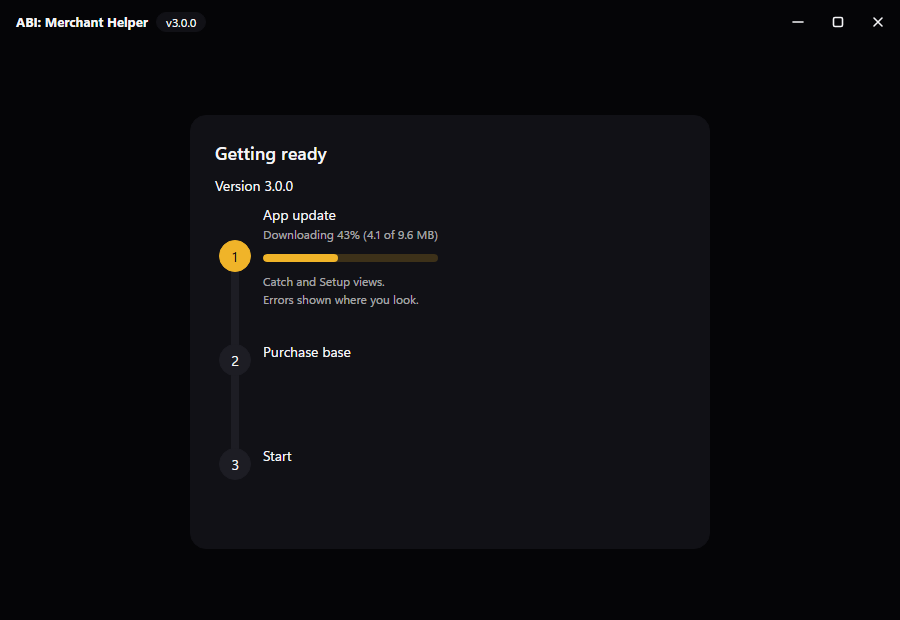
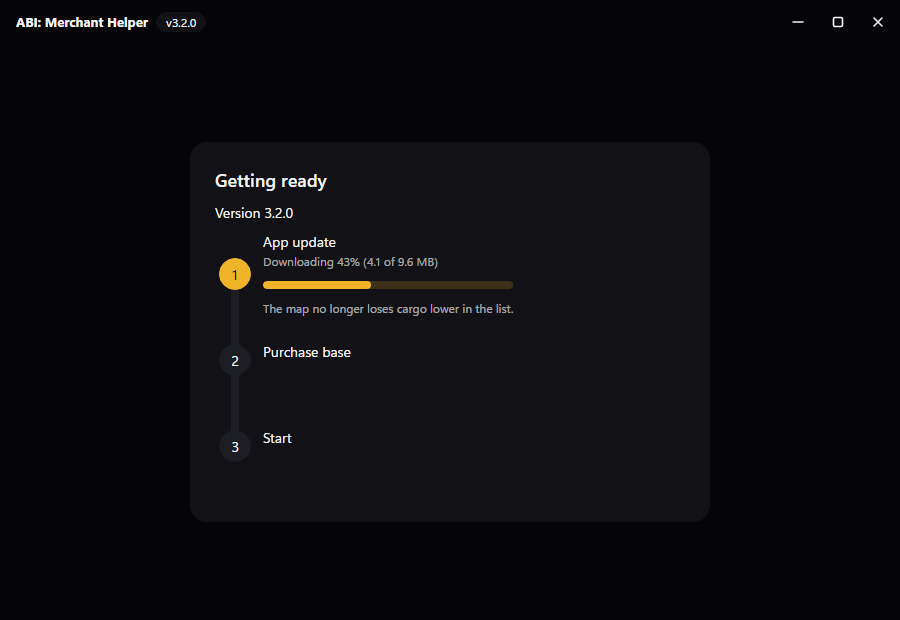
Map: learn the real scroll scale, so lower rows no longer slip and vanish
The row of each frame came from the scrollbar as (thumb position) x (track / thumb length).
In the game the list scrolls about 9% further than that, so the lower part of the list was
counted 1-2 rows off: copies of the same cargo landed on two rows, overlapped, and the vote
kept one and dropped the cargo they covered. Replaying the saved frames of a real game shows
it (scale 2.860 assumed, 3.115 real; with it every frame lands on whole rows).

- learnScale(): during the scan, the scale is fitted so the grid lines of every frame land
  on whole rows (5+ frames, 80% agreeing). When it changes, the scan starts over.
- A ready map corrects itself: a cargo seen 8+ times at two or more scroll positions takes
  the place of ready-map cargo on its cells that have not been seen for 20 parses.
- Diagnostics: the drawn map is saved next to the frames when it is ready and every minute.
- README screenshots retaken with the current look.

Changed region(s): [[0.2178, 0.3371, 0.56, 0.521], [0.2178, 0.2145, 0.3733, 0.3065], [0.28, 0.7048, 0.3422, 0.7661]]

diff --git a/js/screen.js b/js/screen.js
@@ -7,7 +7,7 @@ function resetScan() {
   P = 0; checkFrames = 0; offset = 0; viewport = null; prevSig = null; ring = []; listTopR = null; alerted = new Set();
   cargo = new Map(); results = new Map(); lastKey = null; lastSeen = null; gridSeenAt = 0;
   phase = 'scan'; sawTop = false; sawEnd = false; stableCount = 0;
-  sbKnown = null; noBarCount = 0; frozenPlaced = null; loggedBar = false; frozenP = 0;
+  sbKnown = null; noBarCount = 0; frozenPlaced = null; loggedBar = false; frozenP = 0; scaleSamples = []; scrollK = 0;
   updateStage();
   drawMap();
 }
@@ -21,7 +21,7 @@ function rescan() {
   if (!P || !viewport) { resetScan(); return; }
   cargo = new Map(); results = new Map(); lastKey = null; frozenPlaced = null; hover = null; hoverSig = '';
   phase = 'scan'; sawTop = !sbKnown || lastSbTop; sawEnd = false; stableCount = 0; checkFrames = 0;
-  sbKnown = null; noBarCount = 0; thumbOddCount = 0; frozenP = 0;
+  sbKnown = null; noBarCount = 0; thumbOddCount = 0; frozenP = 0; scaleSamples = []; scrollK = 0;
   updateStage();
   drawMap();
 }
@@ -185,10 +185,12 @@ function analyze(src, rp) {
   const colOf = c => Math.round((grid.x0 + c * P - phaseX) / P);
   let n;
   if (sb) {
-    const scrollPx = (sb.thumbTop - sb.trackTop) * sb.trackLen / sb.thumbLen;
+    if (phase === 'scan') learnScale(sb, grid);
+    const k = scrollK || sb.trackLen / sb.thumbLen;
+    const scrollPx = (sb.thumbTop - sb.trackTop) * k;
     n = Math.round((grid.y0 - sb.trackTop + scrollPx) / P);
     // the list has as many rows as its content length allows; anything else is a recognition error
-    const listRows = Math.ceil(sb.trackLen * sb.trackLen / sb.thumbLen / P) + 2;
+    const listRows = Math.ceil((sb.trackLen + (sb.trackLen - sb.thumbLen) * k) / P) + 2;
     if (n < -grid.rows || n > listRows) { skip('rowRange'); lastSeen = { grid, items }; updateStage(); return; }
     listTopR = 0;
     if (scrollPx < P / 2) sawTop = true;
@@ -208,6 +210,7 @@ function analyze(src, rp) {
 
   // while a cargo is dragged the picture is "dirty": the map and the references are left alone
   const quiet = now - captureOnset > QUIET_MS;
+  parseNo++;
   const seen = new Set(), fresh = [];
   for (const it of items) {
     const C = colOf(it.c), R = n + it.r;
@@ -234,14 +237,24 @@ function analyze(src, rp) {
     const frozenKeys = new Set(frozenPlaced.map(([k]) => k));
     // Filling in: a missing cargo (say, the top row did not get confirmed before freezing)
     // is added once it has been seen confidently several times and overlaps nothing known.
-    // Existing cargo of a ready map never change.
+    // A wrong cargo of the ready map (a shape a price tooltip cut out, or a cargo placed a row off) would block the
+    // real one for good, so a cargo seen again and again, at two or more scroll positions, takes the place of the
+    // ready-map cargo under it that have not been seen for HEAL_STALE parses while it was.
     for (const f of fresh) {
       cargo.set(f.key, { C: f.C, R: f.R, w: f.it.w, h: f.it.h, votes: 0, base: null, thumb: null });
       seen.add(f.key);
     }
     for (const key of seen) {
       const rec = cargo.get(key);
-      if (frozenKeys.has(key) || rec.votes + 1 < MIN_VOTES + 2 || overlapsFrozen(rec)) continue;
+      if (frozenKeys.has(key) || rec.votes + 1 < MIN_VOTES + 2) continue;
+      if (overlapsFrozen(rec)) {
+        const under = frozenPlaced.filter(([, r]) => rec.C < r.C + r.w && r.C < rec.C + rec.w && rec.R < r.R + r.h && r.R < rec.R + rec.h);
+        const solid = rec.votes + 1 >= HEAL_VOTES && rec.rows && rec.rows.size >= 2;
+        if (!solid || under.some(([, r]) => parseNo - (r.seenNo || 0) < HEAL_STALE)) continue;
+        diag(`map corrected: ${under.map(([k]) => k).join(' + ')} -> ${key}`);
+        frozenPlaced = frozenPlaced.filter(e => !under.includes(e));
+        for (const [k] of under) { frozenKeys.delete(k); results.delete(k); if (lastKey === k) lastKey = null; }
+      }
       frozenPlaced.push([key, rec]);
       frozenKeys.add(key);
     }
@@ -252,6 +265,8 @@ function analyze(src, rp) {
     const it = items.find(i => `${colOf(i.c)},${n + i.r},${i.w},${i.h}` === key);
     rec.votes++;
     rec.seen = now;
+    rec.seenNo = parseNo;
+    (rec.rows || (rec.rows = new Set())).add(n); // the scroll positions it was seen at
     if (!quiet && rec.thumb) continue;
     const x = grid.x0 + it.c * P, y = grid.y0 + it.r * P;
     rec.thumb = makeThumb(x, y, it.w * P, it.h * P);
@@ -276,6 +291,39 @@ function analyze(src, rp) {
   if (document.visibilityState === 'visible') drawMap();
 }
 
+// How far the list scrolls per pixel of thumb movement. Not simply track / thumb length (the game's thumb is
+// not proportional): it is the scale with which every frame puts the grid lines on whole rows. Each frame gives
+// the thumb position d and where the grid lines are (f); the right scale makes (k·d − f) / P whole for all of them.
+// Learned during the scan; when it changes, the rows counted so far were off, so the scan starts over.
+function learnScale(sb, grid) {
+  const d = sb.thumbTop - sb.trackTop, f = sb.trackTop - grid.y0;
+  if (d < 4) return; // at the top the thumb tells nothing about the scale
+  if (scaleSamples.some(s => Math.abs(s.d - d) < 2)) return;
+  scaleSamples.push({ d, f });
+  if (scaleSamples.length > 40) scaleSamples.shift();
+  const ds = scaleSamples.map(s => s.d);
+  if (scaleSamples.length < 5 || Math.max(...ds) - Math.min(...ds) < P) return;
+  const base = sb.trackLen / sb.thumbLen;
+  let best = null;
+  for (let k = base * 0.85; k <= base * 1.35; k += base * 0.0005) {
+    let inliers = 0, err = 0;
+    for (const s of scaleSamples) {
+      const r = (k * s.d - s.f) / P, off = Math.abs(r - Math.round(r));
+      if (off < SCALE_FIT) { inliers++; err += off * off; }
+    }
+    if (!best || inliers > best.inliers || (inliers === best.inliers && err < best.err)) best = { k, inliers, err };
+  }
+  // most frames must agree (a cursor on the scrollbar spoils a few), or the old scale stays
+  if (best.inliers < 5 || best.inliers < scaleSamples.length * 0.8) return;
+  const was = scrollK || base;
+  if (Math.abs(best.k - was) < was * 0.005) { scrollK = best.k; return; }
+  scrollK = best.k;
+  diag(`scroll scale ${was.toFixed(3)} -> ${scrollK.toFixed(3)} from ${best.inliers} of ${scaleSamples.length} frames`);
+  if (Math.abs(scrollK - was) > was * 0.02) {
+    cargo = new Map(); results = new Map(); lastKey = null; stableCount = 0; sawTop = sawEnd = false;
+  }
+}
+
 function overlapsFrozen(rec) {
   return frozenPlaced.some(([, r]) => rec.C < r.C + r.w && r.C < rec.C + rec.w && rec.R < r.R + r.h && r.R < rec.R + rec.h);
 }
@@ -286,6 +334,7 @@ function freeze(message) {
   frozenP = P;
   phase = 'frozen';
   log(message);
+  diagMap();
   updateStage();
 }
 

diff --git a/js/base.js b/js/base.js
@@ -21,6 +21,9 @@ const NO_BAR_LIMIT = 8;      // this many parses without a scrollbar: the list i
 const THUMB_TOLERANCE = 0.12; // a thumb longer/shorter than remembered by more than this is suspicious
 const THUMB_NEW_STREAK = 8;  // a new length for this many parses in a row: the list really changed
 const MAP_MAX_ROWS = 80;     // the merchant never has more rows; more on the map is an error
+const SCALE_FIT = 0.15;      // a frame agrees with a scroll scale if its grid lines land this close to whole rows
+const HEAL_VOTES = 8;        // a cargo needs this many sightings to replace a cargo of the ready map
+const HEAL_STALE = 20;       // and those must not have been seen for this many parses
 const MIN_VOTES = 2;         // this many frames must confirm a cargo before it appears on the map
 const SPLIT_SHARE = 0.35;    // smaller cargo beat a big one if each was seen at least this often relative to it
 const UP_BIAS = 0.03;        // "put down" beats "pick up" only by this margin

diff --git a/js/purchases.js b/js/purchases.js
@@ -65,6 +65,11 @@ if (!DIAG && location.protocol.startsWith('http')) fetch('diag.on', { cache: 'no
 function diag(msg) {
   if (DIAG) fetch('api/diag', { method: 'POST', headers: { 'Content-Type': 'text/plain' }, body: String(msg) }).catch(() => {});
 }
+// The drawn map as an image next to the frames (diag only): what the app thought the list looks like
+function diagMap() {
+  if (DIAG && ui.map.width > 1) ui.map.toBlob(b => { if (b) fetch('api/diagframe', { method: 'POST', body: b }).catch(() => {}); }, 'image/jpeg', 0.9);
+}
+setInterval(() => { if (stream && phase === 'frozen') diagMap(); }, 60000);
 function diagFrame() {
   if (DIAG && fullCanvas.width) fullCanvas.toBlob(b => { if (b) fetch('api/diagframe', { method: 'POST', body: b }).catch(() => {}); }, 'image/jpeg', 0.85);
 }

diff --git a/js/state.js b/js/state.js
@@ -64,6 +64,8 @@ let lastSbTop = true;        // the scrollbar thumb was at the very top on the l
 let thumbOddLen = 0, thumbOddCount = 0; // a thumb of a different length: which and for how many frames in a row
 let loggedBar = false;       // "scrollbar found" is logged once, not on every rescan
 let frozenP = 0;             // the cell size when the map froze: a ready map keeps to it
+let scaleSamples = [], scrollK = 0; // learned scroll scale and the frames it is learned from (learnScale)
+let parseNo = 0;             // parses that reached the cargo, for the ready-map correction
 let skips = {};              // why parses stopped early since the last diagnostics line: { reason: count }
 let videoReader = null, videoTimer = null;
 let lastScan = 0;
